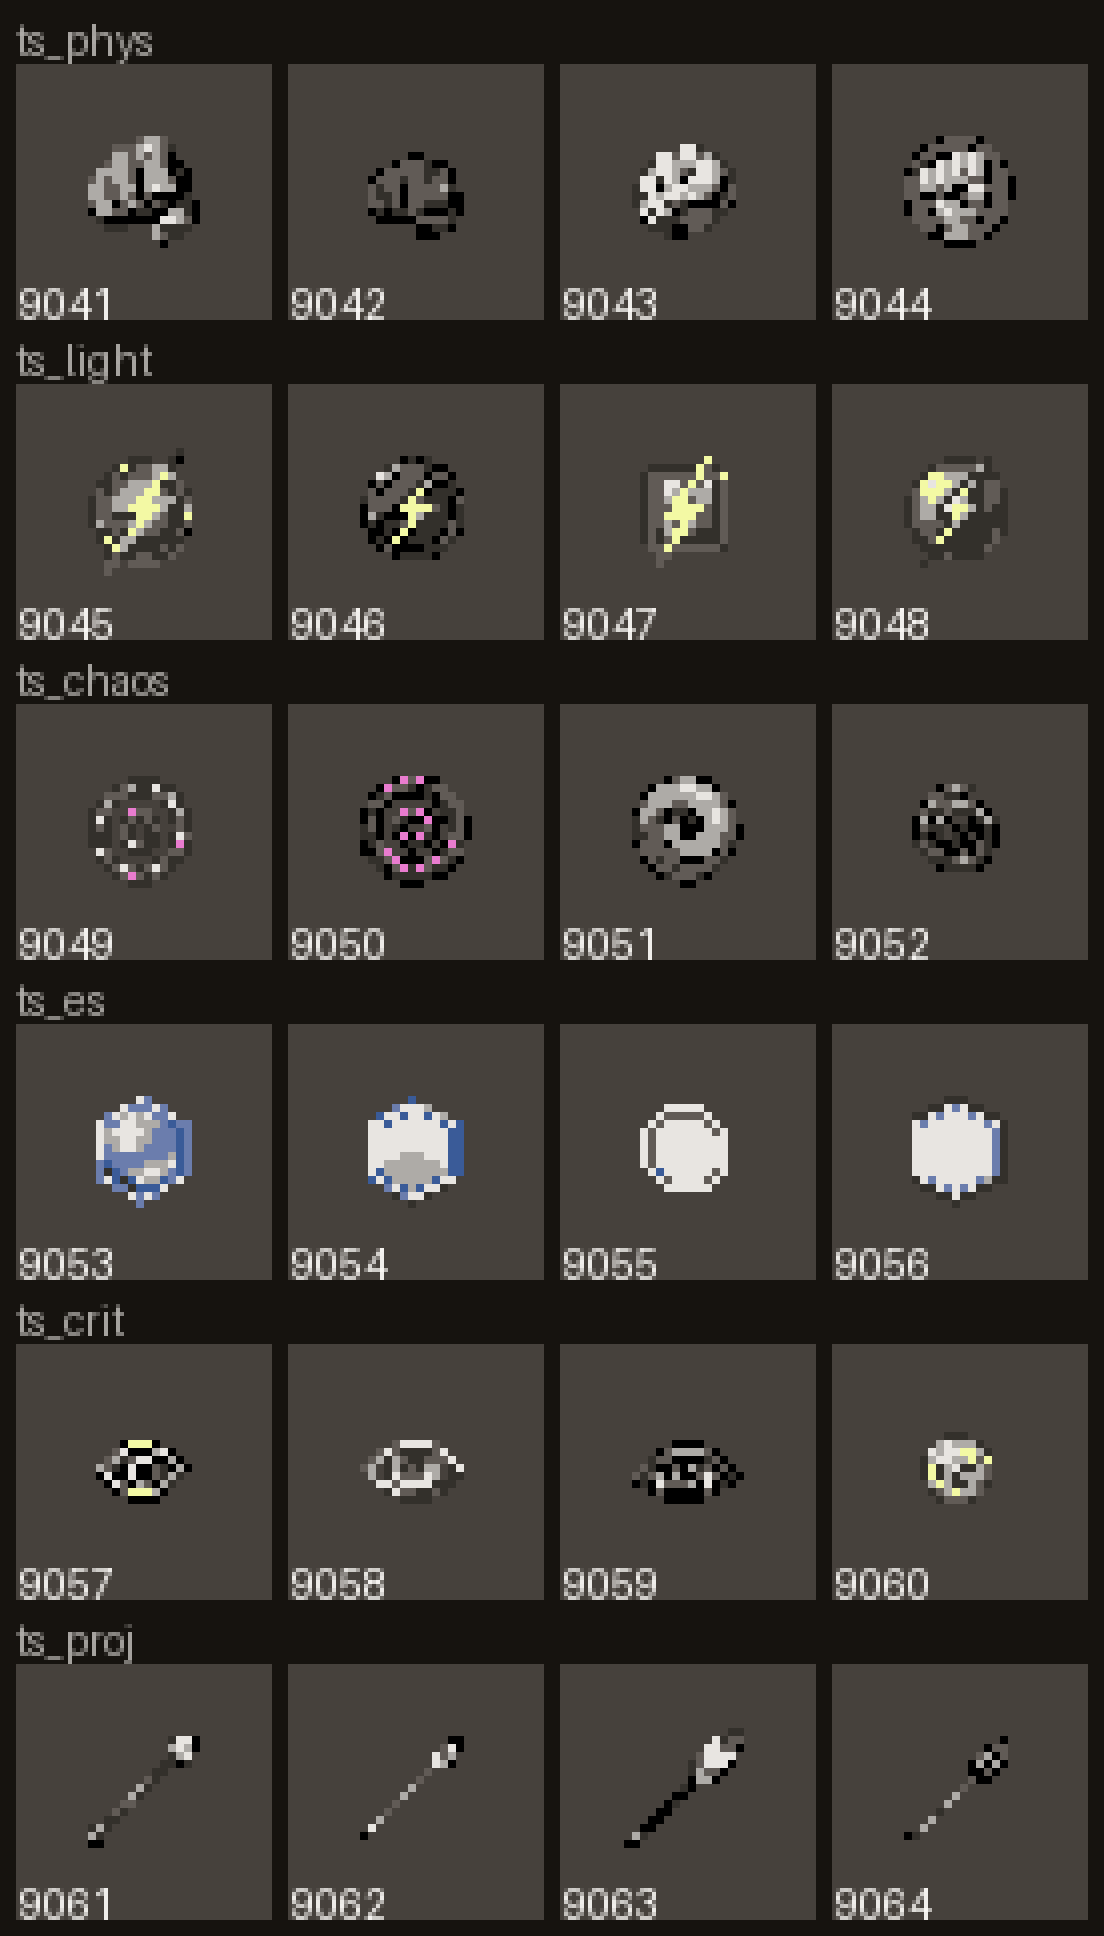
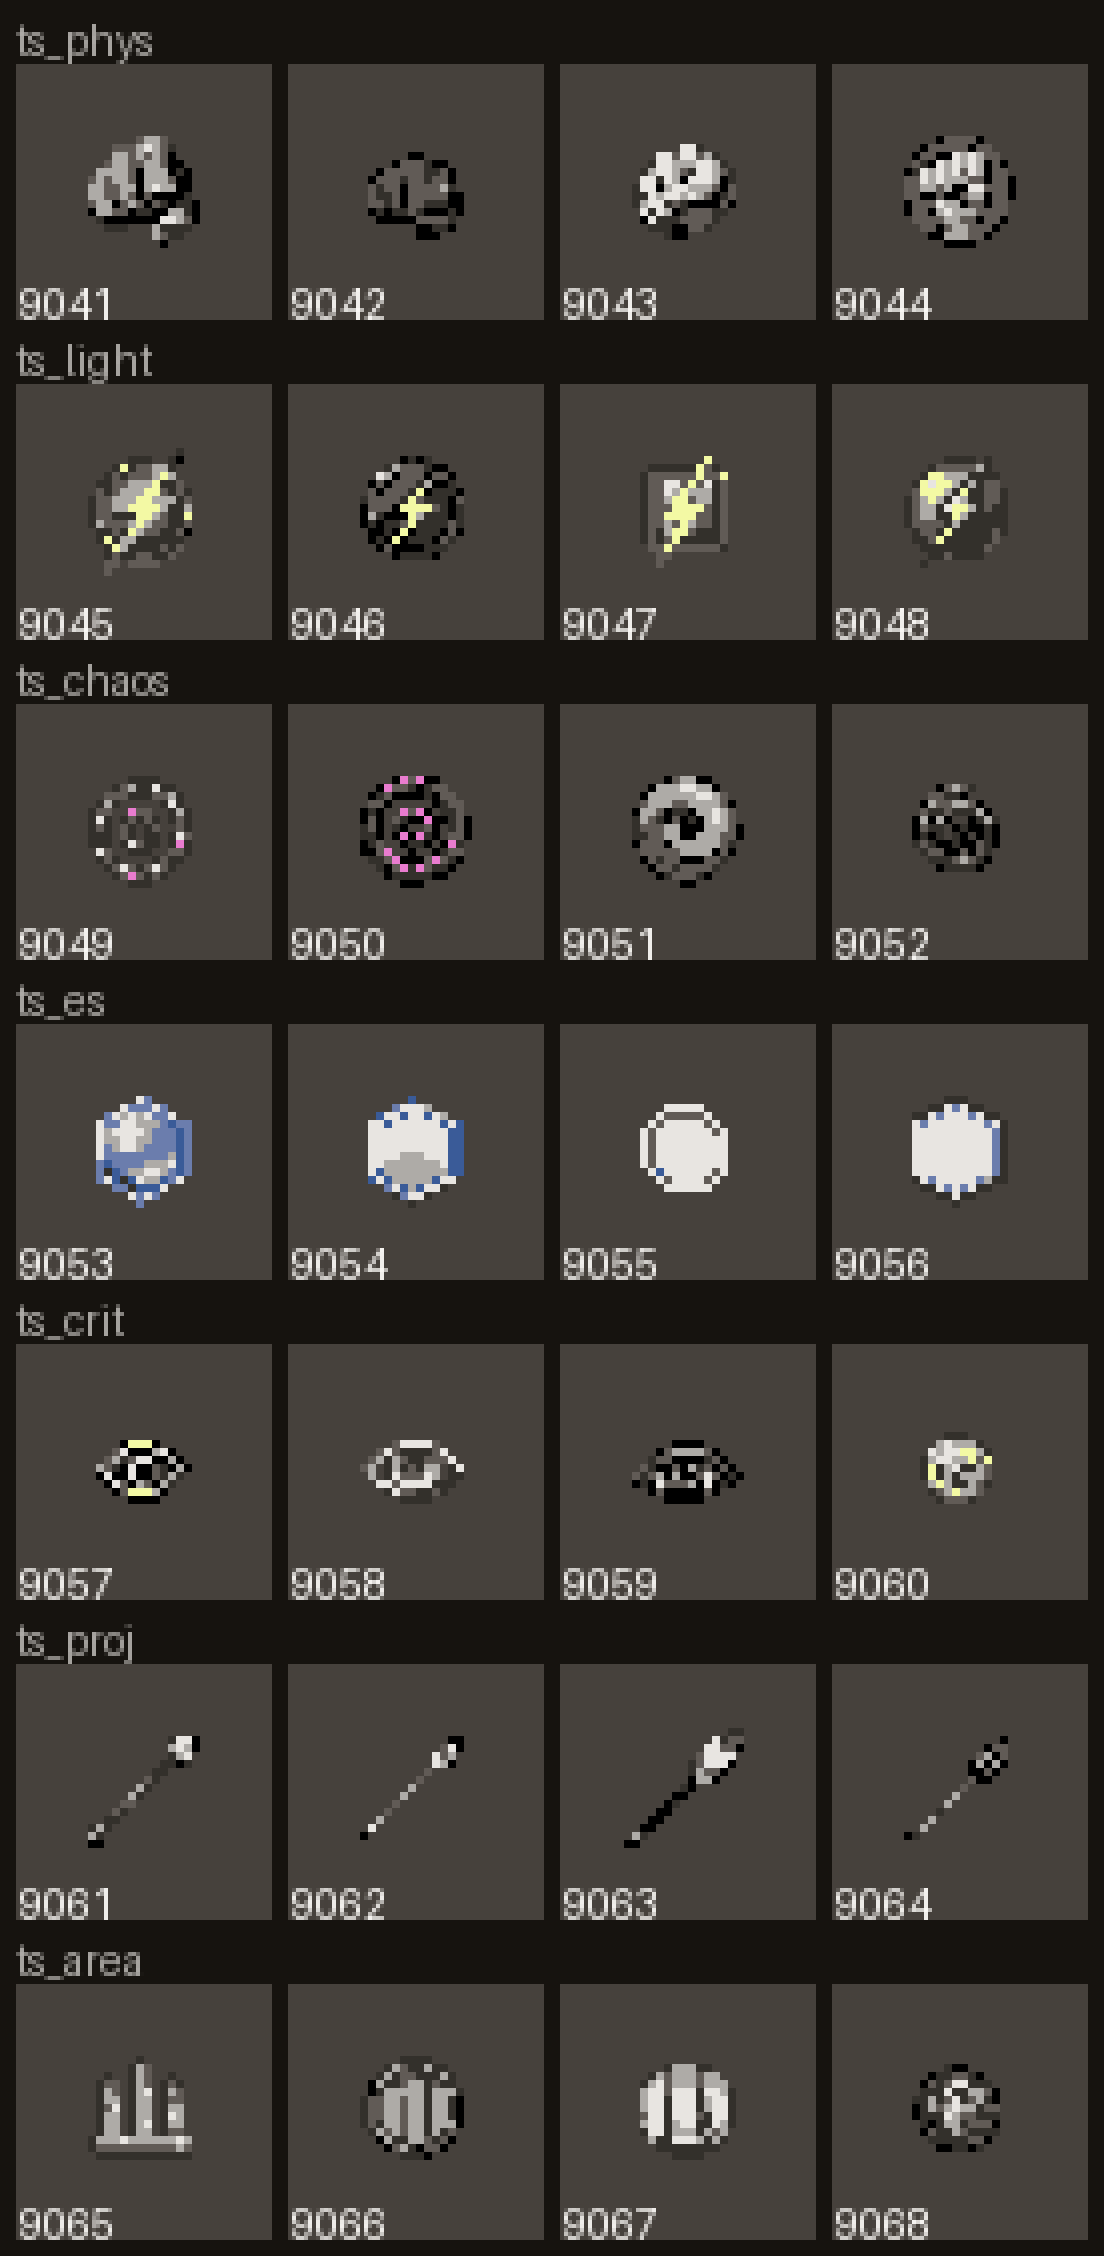
M2-36 D2 補跑：第 1–16 列跑完（挑圖用）
Claude-Session: https://claude.ai/code/session_01LdUmBLLbZ3qo2BnEdyLSAK

diff --git a/art/_tmp/m2-36-d2-rerun/results.md b/art/_tmp/m2-36-d2-rerun/results.md
@@ -27,7 +27,7 @@
 | 13 | `ts_es` | 4 | 4 | 0 | 4 |
 | 14 | `ts_crit` | 4 | 4 | 0 | 4 |
 | 15 | `ts_proj` | 4 | 4 | 0 | 4 |
-| 16 | `ts_area` | 4 | 0 | 0 | 0 |
+| 16 | `ts_area` | 4 | 4 | 0 | 0 |
 | 17 | `boss_fengbo` | 4 | 0 | 0 | 0 |
 | 18 | `tk_deflect` | 3 | 0 | 0 | 0 |
 | 19 | `tk_inevcrit` | 3 | 0 | 0 | 0 |
@@ -42,7 +42,7 @@
 | 28 | `cur_pcalam` | 3 | 0 | 0 | 0 |
 | 29 | `cur_ink` | 3 | 0 | 0 | 0 |
 | 30 | `plq_corner` | 3 | 0 | 0 | 0 |
-| 合計 | | 111 | 63 | 1 | 45 |
+| 合計 | | 111 | 67 | 1 | 45 |
 
 ## 牆
 
@@ -97,33 +97,33 @@
 | 9 | `tn_duration` | 9039 | 成功 | 原圖 ΔE>3 0%；最大 ΔE 0.0；放大圖 否；禁色 0；不透明 25%；半透明(原圖) 0；C*>40 0%；C* 上限 25%；本批別組最大 IoU 0.51（只回報） | ✅ |
 | 9 | `tn_duration` | 9040 | 成功 | 原圖 ΔE>3 0%；最大 ΔE 0.0；放大圖 否；禁色 0；不透明 31%；半透明(原圖) 0；C*>40 0%；C* 上限 25%；本批別組最大 IoU 0.65（只回報） | ✅ |
 | 10 | `ts_phys` | 9041 | 成功 | 原圖 32，post 縮成 16；原圖 ΔE>3 0%；最大 ΔE 0.0；放大圖 否；禁色 0；不透明 53%；半透明(原圖) 0；C*>40 0%；C* 上限 25%；棋盤 4；本批別組最大 IoU 0.85（只回報） | ✅ |
-| 10 | `ts_phys` | 9042 | 成功 | 原圖 32，post 縮成 16；原圖 ΔE>3 0%；最大 ΔE 0.0；放大圖 否；禁色 0；不透明 37%；半透明(原圖) 0；C*>40 0%；C* 上限 25%；棋盤 1；本批別組最大 IoU 0.76（只回報） | ✅ |
+| 10 | `ts_phys` | 9042 | 成功 | 原圖 32，post 縮成 16；原圖 ΔE>3 0%；最大 ΔE 0.0；放大圖 否；禁色 0；不透明 37%；半透明(原圖) 0；C*>40 0%；C* 上限 25%；棋盤 1；本批別組最大 IoU 0.77（只回報） | ✅ |
 | 10 | `ts_phys` | 9043 | 成功 | 原圖 32，post 縮成 16；原圖 ΔE>3 0%；最大 ΔE 0.0；放大圖 否；禁色 0；不透明 45%；半透明(原圖) 0；C*>40 0%；C* 上限 25%；棋盤 3；本批別組最大 IoU 0.88（只回報） | ❌ 實心圓盤／圓底（剪影對同面積圓 IoU 0.89） |
 | 10 | `ts_phys` | 9044 | 成功 | 原圖 32，post 縮成 16；原圖 ΔE>3 0%；最大 ΔE 0.0；放大圖 否；禁色 0；不透明 60%；半透明(原圖) 0；C*>40 0%；C* 上限 25%；棋盤 2；本批別組最大 IoU 0.95（只回報） | ❌ 實心圓盤／圓底（剪影對同面積圓 IoU 0.99） |
 | 11 | `ts_light` | 9045 | 成功 | 原圖 32，post 縮成 16；原圖 ΔE>3 0%；最大 ΔE 0.0；放大圖 否；禁色 0；不透明 57%；半透明(原圖) 0；C*>40 12%；C* 上限 80%；棋盤 4；本批別組最大 IoU 0.88（只回報） | ❌ 實心圓盤／圓底（剪影對同面積圓 IoU 0.92） |
-| 11 | `ts_light` | 9046 | 成功 | 原圖 32，post 縮成 16；原圖 ΔE>3 0%；最大 ΔE 0.0；放大圖 否；禁色 0；不透明 53%；半透明(原圖) 0；C*>40 7%；C* 上限 80%；棋盤 5；本批別組最大 IoU 0.92（只回報） | ❌ 實心圓盤／圓底（剪影對同面積圓 IoU 1.00） |
+| 11 | `ts_light` | 9046 | 成功 | 原圖 32，post 縮成 16；原圖 ΔE>3 0%；最大 ΔE 0.0；放大圖 否；禁色 0；不透明 53%；半透明(原圖) 0；C*>40 7%；C* 上限 80%；棋盤 5；本批別組最大 IoU 0.96（只回報） | ❌ 實心圓盤／圓底（剪影對同面積圓 IoU 1.00） |
 | 11 | `ts_light` | 9047 | 成功 | 原圖 32，post 縮成 16；原圖 ΔE>3 0%；最大 ΔE 0.0；放大圖 否；禁色 0；不透明 48%；半透明(原圖) 0；C*>40 17%；C* 上限 80%；棋盤 3；本批別組最大 IoU 0.84（只回報） | ✅ |
-| 11 | `ts_light` | 9048 | 成功 | 原圖 32，post 縮成 16；原圖 ΔE>3 0%；最大 ΔE 0.0；放大圖 否；禁色 0；不透明 54%；半透明(原圖) 0；C*>40 11%；C* 上限 80%；棋盤 2；本批別組最大 IoU 0.92（只回報） | ❌ 實心圓盤／圓底（剪影對同面積圓 IoU 0.97） |
+| 11 | `ts_light` | 9048 | 成功 | 原圖 32，post 縮成 16；原圖 ΔE>3 0%；最大 ΔE 0.0；放大圖 否；禁色 0；不透明 54%；半透明(原圖) 0；C*>40 11%；C* 上限 80%；棋盤 2；本批別組最大 IoU 0.94（只回報） | ❌ 實心圓盤／圓底（剪影對同面積圓 IoU 0.97） |
 | 12 | `ts_chaos` | 9049 | 成功 | 原圖 32，post 縮成 16；原圖 ΔE>3 0%；最大 ΔE 0.0；放大圖 否；禁色 0；不透明 44%；半透明(原圖) 0；C*>40 3%；C* 上限 80%；棋盤 4；本批別組最大 IoU 0.76（只回報） | ❌ 圓框（外圈角度覆蓋 100%、環帶 81%、中心 80%） |
 | 12 | `ts_chaos` | 9050 | 成功 | 原圖 32，post 縮成 16；原圖 ΔE>3 0%；最大 ΔE 0.0；放大圖 否；禁色 0；不透明 51%；半透明(原圖) 0；C*>40 11%；C* 上限 80%；棋盤 2；本批別組最大 IoU 0.85（只回報） | ❌ 圓框（外圈角度覆蓋 100%、環帶 92%、中心 78%） |
 | 12 | `ts_chaos` | 9051 | 成功 | 原圖 32，post 縮成 16；原圖 ΔE>3 0%；最大 ΔE 0.0；放大圖 否；禁色 0；不透明 57%；半透明(原圖) 0；C*>40 0%；C* 上限 80%；棋盤 3；本批別組最大 IoU 0.95（只回報） | ❌ 實心圓盤／圓底（剪影對同面積圓 IoU 0.98） |
 | 12 | `ts_chaos` | 9052 | 成功 | 原圖 32，post 縮成 16；原圖 ΔE>3 0%；最大 ΔE 0.0；放大圖 否；禁色 0；不透明 35%；半透明(原圖) 0；C*>40 0%；C* 上限 80%；棋盤 3；本批別組最大 IoU 0.89（只回報） | ❌ 圓框（外圈角度覆蓋 96%、環帶 90%、中心 76%） |
-| 13 | `ts_es` | 9053 | 成功 | 原圖 32，post 縮成 16；原圖 ΔE>3 0%；最大 ΔE 0.0；放大圖 否；禁色 0；不透明 48%；半透明(原圖) 0；C*>40 0%；C* 上限 25%；棋盤 3；外框判定 實心圓盤／圓底（剪影對同面積圓 IoU 0.93）（主體就是六角外框，不擋，待美術看）；本批別組最大 IoU 0.89（只回報） | ✅ |
-| 13 | `ts_es` | 9054 | 成功 | 原圖 32，post 縮成 16；原圖 ΔE>3 0%；最大 ΔE 0.0；放大圖 否；禁色 0；不透明 48%；半透明(原圖) 0；C*>40 0%；C* 上限 25%；棋盤 3；外框判定 實心圓盤／圓底（剪影對同面積圓 IoU 0.94）（主體就是六角外框，不擋，待美術看）；本批別組最大 IoU 0.89（只回報） | ✅ |
-| 13 | `ts_es` | 9055 | 成功 | 原圖 32，post 縮成 16；原圖 ΔE>3 0%；最大 ΔE 0.0；放大圖 否；禁色 0；不透明 39%；半透明(原圖) 0；C*>40 0%；C* 上限 25%；棋盤 5；外框判定 實心圓盤／圓底（剪影對同面積圓 IoU 0.98）（主體就是六角外框，不擋，待美術看）；本批別組最大 IoU 0.89（只回報） | ✅ |
+| 13 | `ts_es` | 9053 | 成功 | 原圖 32，post 縮成 16；原圖 ΔE>3 0%；最大 ΔE 0.0；放大圖 否；禁色 0；不透明 48%；半透明(原圖) 0；C*>40 0%；C* 上限 25%；棋盤 3；外框判定 實心圓盤／圓底（剪影對同面積圓 IoU 0.93）（主體就是六角外框，不擋，待美術看）；本批別組最大 IoU 0.94（只回報） | ✅ |
+| 13 | `ts_es` | 9054 | 成功 | 原圖 32，post 縮成 16；原圖 ΔE>3 0%；最大 ΔE 0.0；放大圖 否；禁色 0；不透明 48%；半透明(原圖) 0；C*>40 0%；C* 上限 25%；棋盤 3；外框判定 實心圓盤／圓底（剪影對同面積圓 IoU 0.94）（主體就是六角外框，不擋，待美術看）；本批別組最大 IoU 0.94（只回報） | ✅ |
+| 13 | `ts_es` | 9055 | 成功 | 原圖 32，post 縮成 16；原圖 ΔE>3 0%；最大 ΔE 0.0；放大圖 否；禁色 0；不透明 39%；半透明(原圖) 0；C*>40 0%；C* 上限 25%；棋盤 5；外框判定 實心圓盤／圓底（剪影對同面積圓 IoU 0.98）（主體就是六角外框，不擋，待美術看）；本批別組最大 IoU 0.96（只回報） | ✅ |
 | 13 | `ts_es` | 9056 | 成功 | 原圖 32，post 縮成 16；原圖 ΔE>3 0%；最大 ΔE 0.0；放大圖 否；禁色 0；不透明 52%；半透明(原圖) 0；C*>40 0%；C* 上限 25%；棋盤 1；外框判定 實心圓盤／圓底（剪影對同面積圓 IoU 0.93）（主體就是六角外框，不擋，待美術看）；本批別組最大 IoU 0.92（只回報） | ✅ |
 | 14 | `ts_crit` | 9057 | 成功 | 原圖 32，post 縮成 16；原圖 ΔE>3 0%；最大 ΔE 0.0；放大圖 否；禁色 0；不透明 26%；半透明(原圖) 0；C*>40 9%；C* 上限 25%；棋盤 5；本批別組最大 IoU 0.68（只回報） | ✅ |
 | 14 | `ts_crit` | 9058 | 成功 | 原圖 32，post 縮成 16；原圖 ΔE>3 0%；最大 ΔE 0.0；放大圖 否；禁色 0；不透明 27%；半透明(原圖) 0；C*>40 0%；C* 上限 25%；棋盤 3；本批別組最大 IoU 0.69（只回報） | ✅ |
 | 14 | `ts_crit` | 9059 | 成功 | 原圖 32，post 縮成 16；原圖 ΔE>3 0%；最大 ΔE 0.0；放大圖 否；禁色 0；不透明 29%；半透明(原圖) 0；C*>40 0%；C* 上限 25%；棋盤 5；本批別組最大 IoU 0.72（只回報） | ✅ |
-| 14 | `ts_crit` | 9060 | 成功 | 原圖 32，post 縮成 16；原圖 ΔE>3 0%；最大 ΔE 0.0；放大圖 否；禁色 0；不透明 25%；半透明(原圖) 0；C*>40 12%；C* 上限 25%；棋盤 2；本批別組最大 IoU 0.66（只回報） | ✅ |
+| 14 | `ts_crit` | 9060 | 成功 | 原圖 32，post 縮成 16；原圖 ΔE>3 0%；最大 ΔE 0.0；放大圖 否；禁色 0；不透明 25%；半透明(原圖) 0；C*>40 12%；C* 上限 25%；棋盤 2；本批別組最大 IoU 0.67（只回報） | ✅ |
 | 15 | `ts_proj` | 9061 | 成功 | 原圖 32，post 縮成 16；原圖 ΔE>3 0%；最大 ΔE 0.0；放大圖 否；禁色 0；不透明 14%；半透明(原圖) 0；C*>40 0%；C* 上限 25%；棋盤 2；本批別組最大 IoU 0.15（只回報） | ✅ |
 | 15 | `ts_proj` | 9062 | 成功 | 原圖 32，post 縮成 16；原圖 ΔE>3 0%；最大 ΔE 0.0；放大圖 否；禁色 0；不透明 8%；半透明(原圖) 0；C*>40 0%；C* 上限 25%；棋盤 0；本批別組最大 IoU 0.11（只回報） | ✅ |
 | 15 | `ts_proj` | 9063 | 成功 | 原圖 32，post 縮成 16；原圖 ΔE>3 0%；最大 ΔE 0.0；放大圖 否；禁色 0；不透明 18%；半透明(原圖) 0；C*>40 0%；C* 上限 25%；棋盤 0；本批別組最大 IoU 0.22（只回報） | ✅ |
 | 15 | `ts_proj` | 9064 | 成功 | 原圖 32，post 縮成 16；原圖 ΔE>3 0%；最大 ΔE 0.0；放大圖 否；禁色 0；不透明 11%；半透明(原圖) 0；C*>40 0%；C* 上限 25%；棋盤 1；本批別組最大 IoU 0.16（只回報） | ✅ |
-| 16 | `ts_area` | 9065 | 未送出 | — | — |
-| 16 | `ts_area` | 9066 | 未送出 | — | — |
-| 16 | `ts_area` | 9067 | 未送出 | — | — |
-| 16 | `ts_area` | 9068 | 未送出 | — | — |
+| 16 | `ts_area` | 9065 | 成功 | 原圖 32，post 縮成 16；原圖 ΔE>3 0%；最大 ΔE 0.0；放大圖 否；禁色 0；不透明 43%；半透明(原圖) 0；C*>40 0%；C* 上限 25%；棋盤 0；本批別組最大 IoU 0.70（只回報） | ❌ 圓框（外圈角度覆蓋 88%、環帶 65%、中心 60%） |
+| 16 | `ts_area` | 9066 | 成功 | 原圖 32，post 縮成 16；原圖 ΔE>3 0%；最大 ΔE 0.0；放大圖 否；禁色 0；不透明 51%；半透明(原圖) 0；C*>40 0%；C* 上限 25%；棋盤 4；本批別組最大 IoU 0.96（只回報） | ❌ 實心圓盤／圓底（剪影對同面積圓 IoU 0.98） |
+| 16 | `ts_area` | 9067 | 成功 | 原圖 32，post 縮成 16；原圖 ΔE>3 0%；最大 ΔE 0.0；放大圖 否；禁色 0；不透明 46%；半透明(原圖) 0；C*>40 0%；C* 上限 25%；棋盤 1；本批別組最大 IoU 0.94（只回報） | ❌ 實心圓盤／圓底（剪影對同面積圓 IoU 0.99） |
+| 16 | `ts_area` | 9068 | 成功 | 原圖 32，post 縮成 16；原圖 ΔE>3 0%；最大 ΔE 0.0；放大圖 否；禁色 0；不透明 38%；半透明(原圖) 0；C*>40 0%；C* 上限 25%；棋盤 3；本批別組最大 IoU 0.96（只回報） | ❌ 實心圓盤／圓底（剪影對同面積圓 IoU 0.98） |
 | 17 | `boss_fengbo` | 9069 | 未送出 | — | — |
 | 17 | `boss_fengbo` | 9070 | 未送出 | — | — |
 | 17 | `boss_fengbo` | 9071 | 未送出 | — | — |
